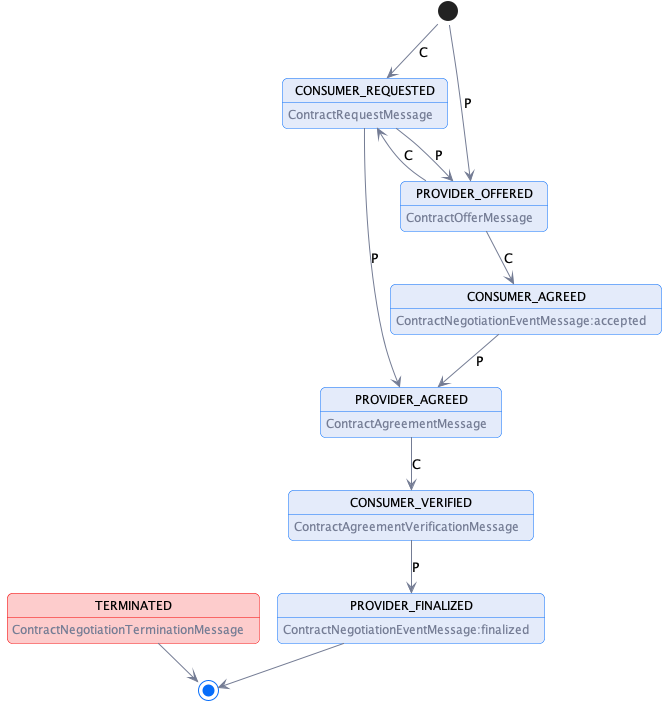
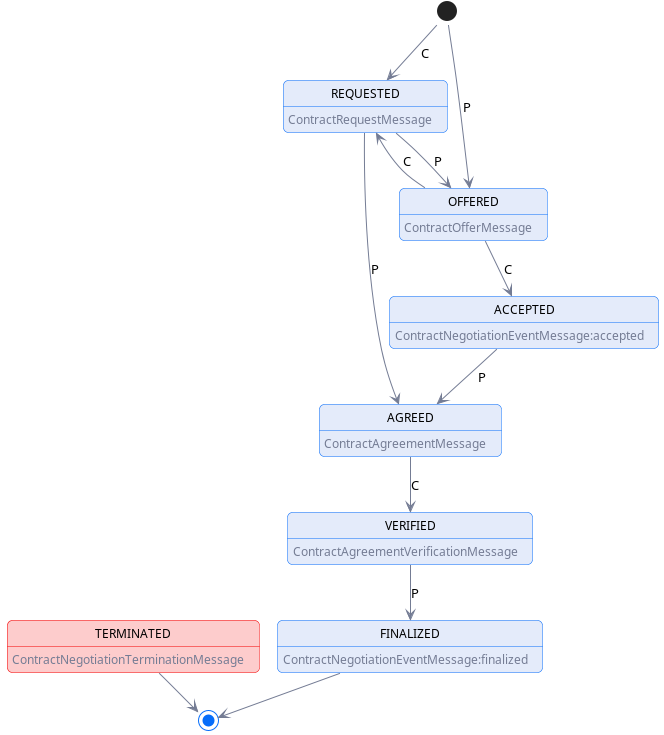
refactor: remove CONSUMER_ and PROVIDER_ prefixes from CN states

Changed region(s): [[0.0, 0.0, 0.994, 0.9674], [0.3012, 0.9674, 0.3614, 0.9986], [0.6928, 0.4993, 0.7229, 0.5305]]

diff --git a/negotiation/contract.negotiation.protocol.md b/negotiation/contract.negotiation.protocol.md
@@ -20,12 +20,12 @@ the counter-party. Both parties have the same state of the CN. In case the state
 
 The CN states are:
 
-- **CONSUMER_REQUESTED** - A contract for an asset has been requested by the consumer based on an offer and the provider has sent an ACK response.
-- **PROVIDER_OFFERED** - The provider has sent a contract offer to the consumer and the consumer has sent an ACK response.
-- **CONSUMER_AGREED** - The consumer has accepted the latest contract offer and the provider has sent an ACK response.
-- **PROVIDER_AGREED** - The provider has accepted the latest contract offer, sent an agreement to the consumer, and the consumer has sent an ACK response.
-- **CONSUMER_VERIFIED** - The consumer has sent an agreement verification to the provider and the provider has sent an ACK response.
-- **PROVIDER_FINALIZED** - The provider has sent a finalization message including his own agreement verification to the consumer and the consumer has sent an ACK response. Data is
+- **REQUESTED** - A contract for an asset has been requested by the consumer based on an offer and the provider has sent an ACK response.
+- **OFFERED** - The provider has sent a contract offer to the consumer and the consumer has sent an ACK response.
+- **ACCEPTED** - The consumer has accepted the latest contract offer and the provider has sent an ACK response.
+- **AGREED** - The provider has accepted the latest contract offer, sent an agreement to the consumer, and the consumer has sent an ACK response.
+- **VERIFIED** - The consumer has sent an agreement verification to the provider and the provider has sent an ACK response.
+- **FINALIZED** - The provider has sent a finalization message including his own agreement verification to the consumer and the consumer has sent an ACK response. Data is
   now available to the consumer.
 - **TERMINATED** - The provider or consumer has placed the contract negotiation in a terminated state. A termination message has been sent by either of the participants and the
   other has sent an ACK response. This is a terminal state.
@@ -58,7 +58,7 @@ The CN state machine is transitioned upon receipt and acknowledgement of a messa
 
 **Sent by**: Consumer
 
-**Resulting State**: CONSUMER_REQUESTED, TERMINATED
+**Resulting State**: REQUESTED, TERMINATED
 
 **Example**: [ContractRequestMessage](./message/contract-request-message.json)
 
@@ -91,7 +91,7 @@ The `ContractRequestMessage` is sent by a consumer to initiate a contract negoti
 
 **Sent by**: Provider
 
-**Resulting State**: PROVIDER_OFFERED, TERMINATED
+**Resulting State**: OFFERED, TERMINATED
 
 **Example**: [ContractOfferMessage](./message/contract-offer-message.json)
 
@@ -110,7 +110,7 @@ The `ContractOfferMessage` is sent by a provider to initiate a contract negotiat
 
 **Sent by**: Provider
 
-**Resulting State**: PROVIDER_AGREED, TERMINATED
+**Resulting State**: AGREED, TERMINATED
 
 **Example**: [ContractAgreementMessage](./message/contract-agreement-message.json)
 
@@ -133,7 +133,7 @@ A `ContractAgreementMessage` must contain an ODRL `Agreement`.
 
 **Sent by**: Consumer
 
-**Resulting State**: CONSUMER_VERIFIED, TERMINATED
+**Resulting State**: VERIFIED, TERMINATED
 
 **Example**: [ContractAgreementVerificationMessage](./message/contract-agreement-verification-message.json)
 
@@ -155,7 +155,7 @@ A `ContractAgreementVerificationMessage` must contain a `processId`.
 
 **Sent by**: Provider or Consumer
 
-**Resulting State**: PROVIDER_FINALIZED, CONSUMER_AGREED, TERMINATED
+**Resulting State**: FINALIZED, ACCEPTED, TERMINATED
 
 **Example**: [ContractNegotiationEventMessage](./message/contract-negotiation-event-message.json)
 
@@ -166,12 +166,12 @@ A `ContractAgreementVerificationMessage` must contain a `processId`.
 #### Description
 
 When the `ContractNegotiationEventMessage` is sent by a provider with an `eventType` property set to `FINALIZED`, a contract agreement has been finalized and the associated asset
-is accessible. The state machine is transitioned to the `PROVIDER_FINALIZED` state. Other event types may be defined in the future. A consumer responds with an error if the signature
+is accessible. The state machine is transitioned to the `FINALIZED` state. Other event types may be defined in the future. A consumer responds with an error if the signature
 can't be validated or is incorrect.
 
 It is an error for a consumer to send a `ContractNegotiationEventMessage` with an eventType `finalized` to the provider.
 
-When the `ContractNegotiationEventMessage` is sent by a consumer with an `eventType` set to  `ACCEPTED`, the state machine is placed in the `CONSUMER_AGREED` state.
+When the `ContractNegotiationEventMessage` is sent by a consumer with an `eventType` set to  `ACCEPTED`, the state machine is placed in the `ACCEPTED` state.
 
 It is an error for a provider to send a `ContractNegotiationEventMessage` with an eventType `ACCEPTED` to the consumer.
 

diff --git a/negotiation/contract.negotiation.binding.https.md b/negotiation/contract.negotiation.binding.https.md
@@ -55,11 +55,11 @@ the [ContractNegotiation](./message/contract-negotiation.json):
   "@context":  "https://w3id.org/dspace/v0.8/context.json",
   "@type": "dspace:ContractNegotiation"
   "@id": "urn:uuid:dcbf434c-eacf-4582-9a02-f8dd50120fd3",
-  "dspace:state" :"CONSUMER_REQUESTED"
+  "dspace:state" :"REQUESTED"
 }  
 ```
 
-Predefined states are: `CONSUMER_REQUESTED`, `PROVIDER_OFFERED`, `CONSUMER_AGREED`, `PROVIDER_AGREED`, `CONSUMER_VERIFIED`, `PROVIDER_FINALIZED`, and `TERMINATED`.
+Predefined states are: `REQUESTED`, `OFFERED`, `ACCEPTED`, `AGREED`, `VERIFIED`, `FINALIZED`, and `TERMINATED`.
 
 If the negotiation does not exist or the client is not authorized, the provider connector must return an HTTP 404 (Not Found) response.
 
@@ -67,7 +67,7 @@ If the negotiation does not exist or the client is not authorized, the provider 
 
 #### 2.5.1 POST
 
-A contract negotiation is started and placed in the `CONSUMER_REQUESTED` state when a consumer POSTs
+A contract negotiation is started and placed in the `REQUESTED` state when a consumer POSTs
 a [ContractRequestMessage](./contract.negotiation.protocol.md#1-contractrequestmessage)to `negotiations/request`:
 
 ```
@@ -103,7 +103,7 @@ Location: /negotiations/urn:uuid:dcbf434c-eacf-4582-9a02-f8dd50120fd3
   "@context":  "https://w3id.org/dspace/v0.8/context.json",
   "@type": "dspace:ContractNegotiation"
   "@id": "urn:uuid:dcbf434c-eacf-4582-9a02-f8dd50120fd3",
-  "dspace:state" :"CONSUMER_REQUESTED"
+  "dspace:state" :"REQUESTED"
 }
 ```
 
